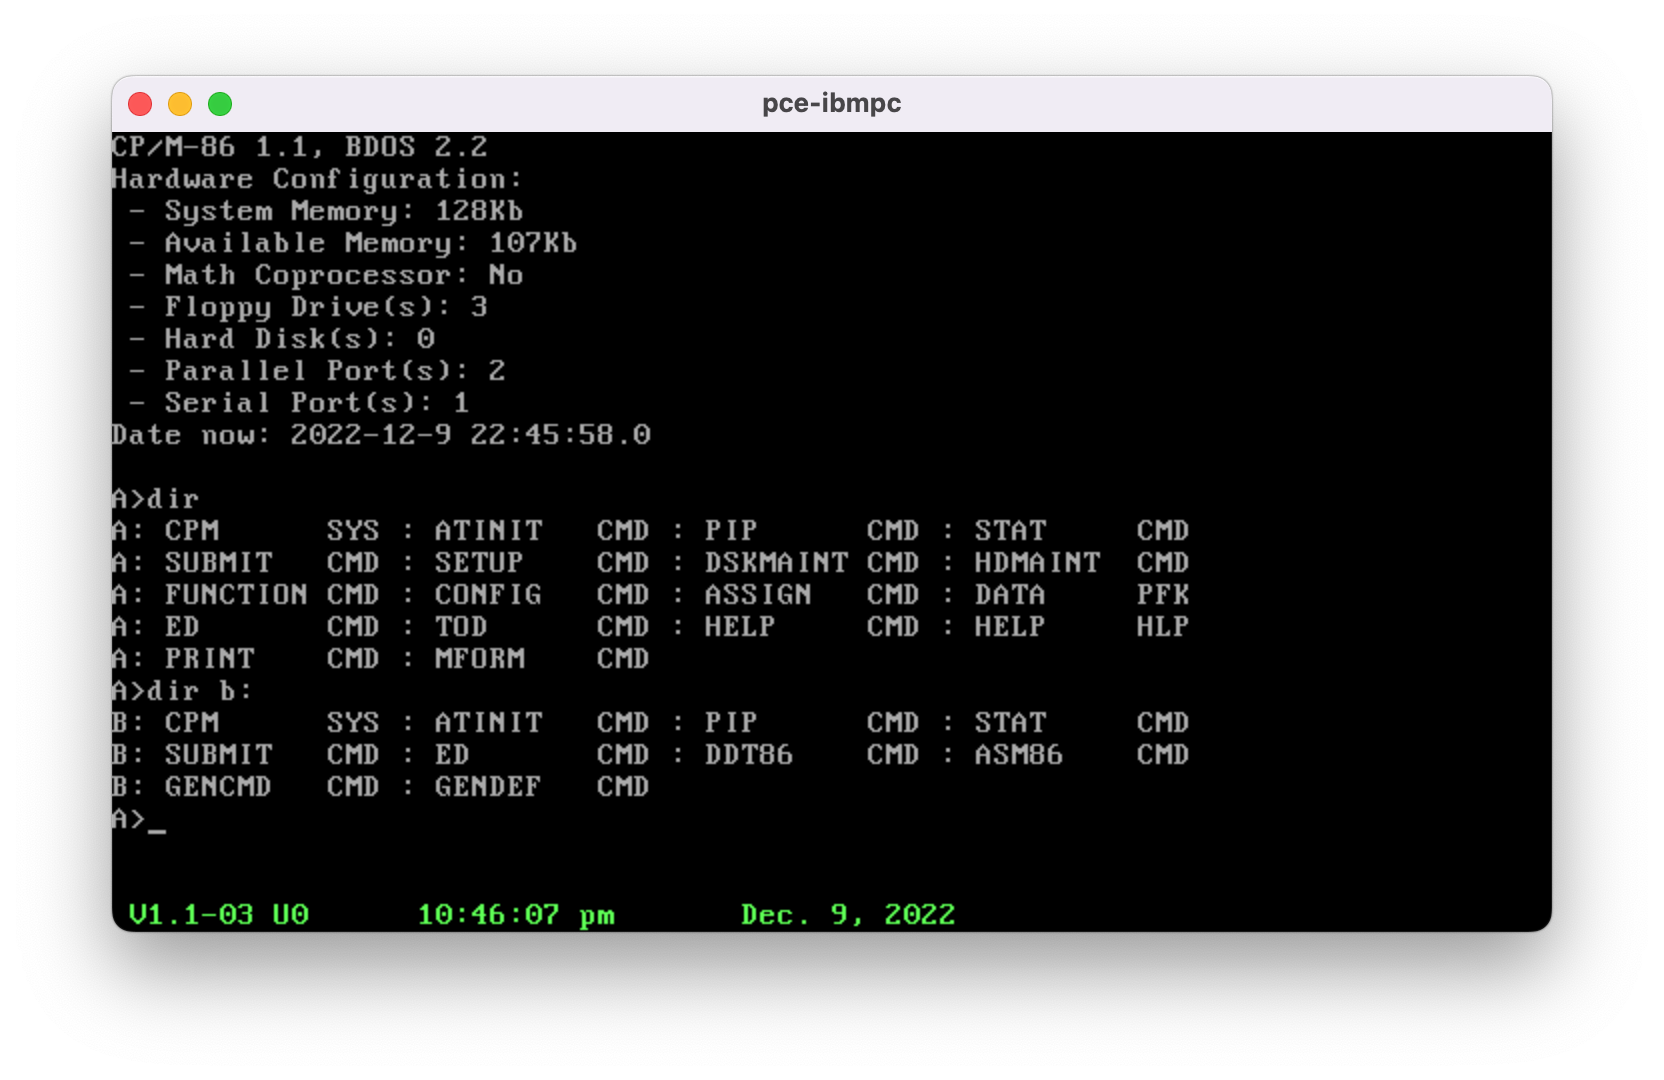
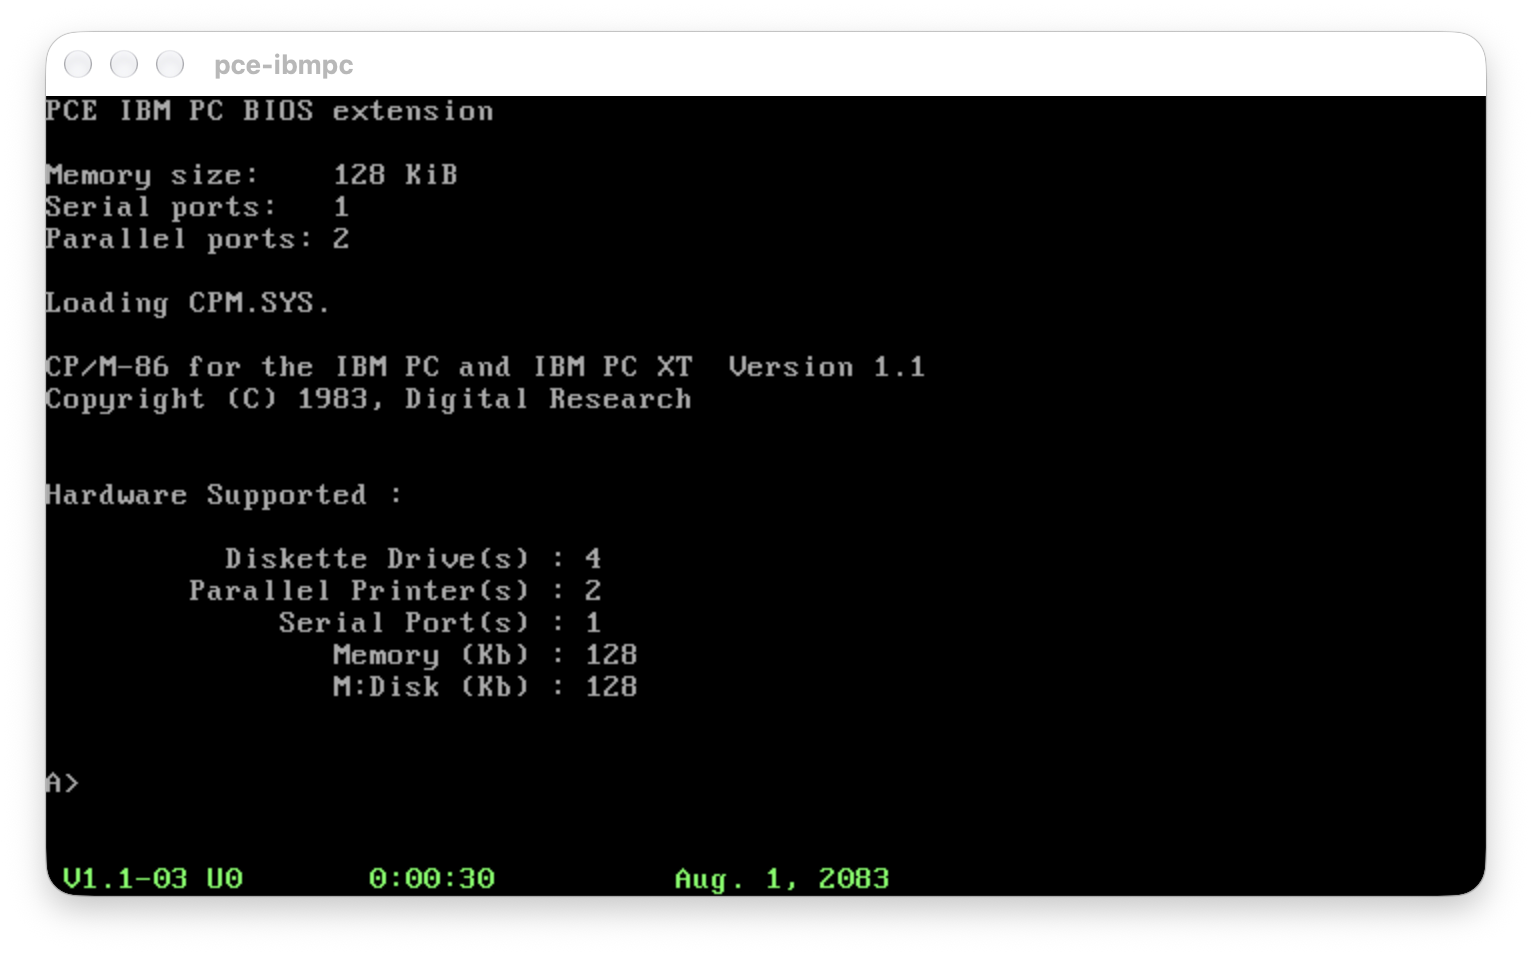
presentation

diff --git a/README.md b/README.md
@@ -4,7 +4,7 @@ CP/M-86 1.1 kernel and commands for IBM PC/XT, emulators, V20 MBC and the AD8088
 
 It is build with [cpm86-crossdev](https://github.com/tsupplis/cpm86-crossdev).
 
-![CP/M-86 menu](images/menu.png)
+![CP/M-86](images/cpm86.png)
 
 ## Kernels
 
@@ -194,7 +194,7 @@ Use [PCE](http://www.hampa.ch/pce/) with cpmtools for testing, or try the 160K i
 
 <p align="center">
 <img src="./images/v20mbc.png" alt="V20 MBC" width="48%">
-<img src="./images/cpm86.png" alt="CP/M-86 in PCE" width="48%">
+<img src="./images/menu.png" alt="CP/M-86 Menu" width="48%">
 <br><sub>V20 MBC hardware &nbsp;·&nbsp; CP/M-86 running in PCE</sub><br>
 <img src="./images/setup.png" alt="BIOS Setup 1.2" width="48%">
 <img src="./images/dskmaint.png" alt="Disk Maintenance 1.2" width="48%">
